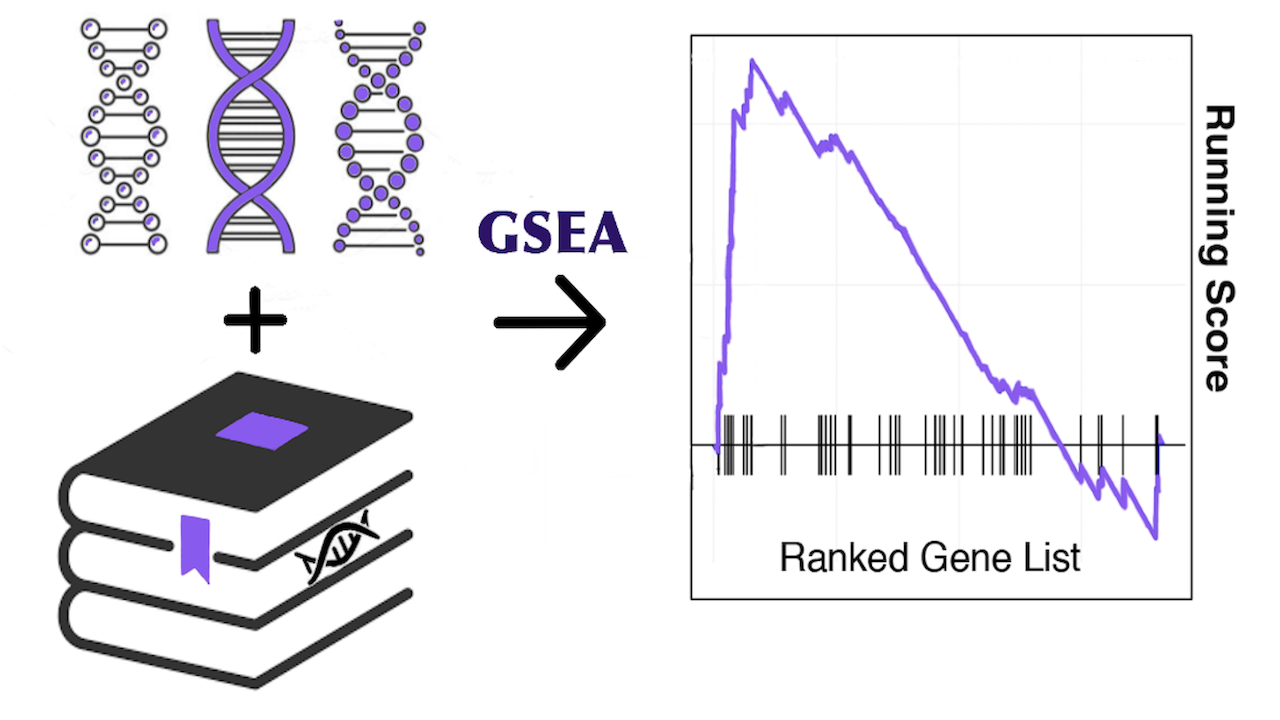
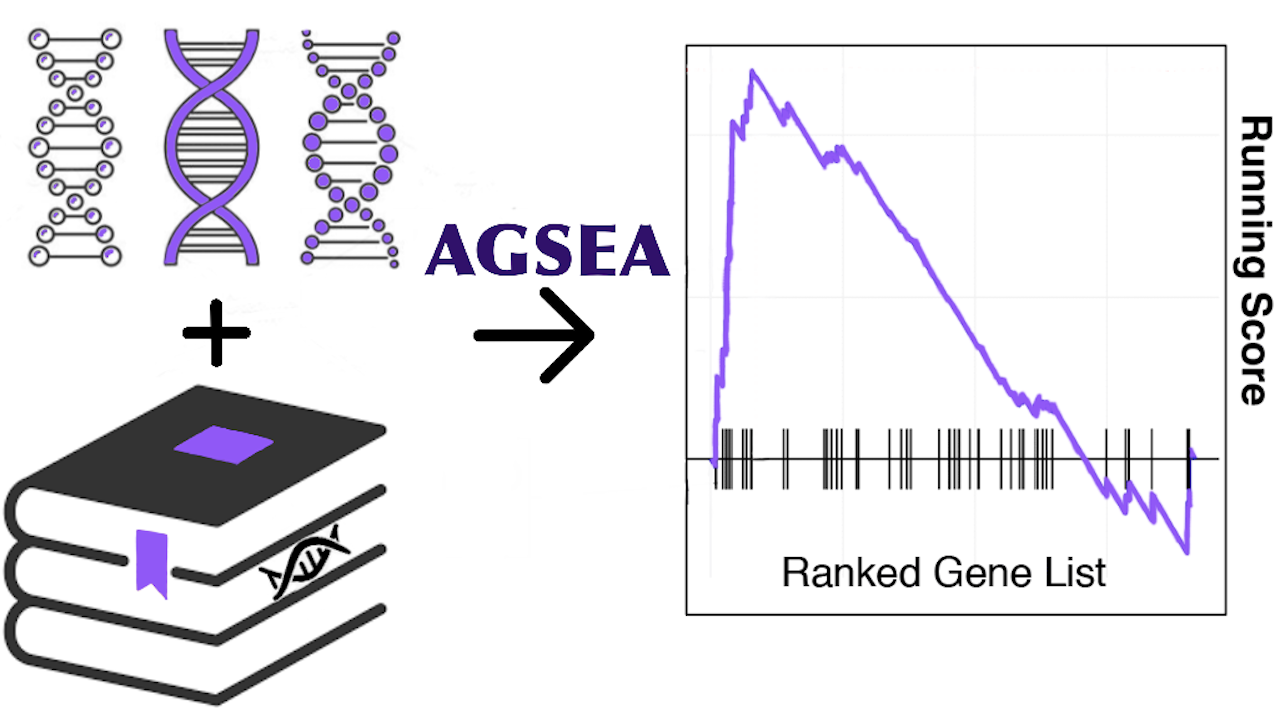
Updated GSEA files to AGSEA files

diff --git a/appyters/AGSEA_Appyter/README.md b/appyters/AGSEA_Appyter/README.md
@@ -1,12 +1,12 @@
-# GSEA Appyter
+# AGSEA Appyter
 
-The GSEA Appyter performs gene set enrichment analysis and visualizes the results. 
+The Augmented Gene Set Enrichment Analysis (AGSEA) Appyter performs and visualizes standard gene set enrichment analysis (GSEA), as well as augmented GSEA.
 
 ## Inputs
 Users must submit gene expression data and a gene set library for the appyter to run. For the gene expression submissions, users have the option of choosing to input either a pre-ranked gene list, or a gene expression dataset with a matching phenotype labels file and a choice of ranking method. As for submitting a gene set library, users can either choose one of the Enrichr libraries, or upload their own. 
-Follow this <a href="https://software.broadinstitute.org/cancer/software/gsea/wiki/index.php/Data_formats">link</a> to learn more about the proper file formats.
+Follow this [link](https://software.broadinstitute.org/cancer/software/gsea/wiki/index.php/Data_formats) to learn more about the proper file formats.
 
-After determining the data submissions, users can customize their experience further by choosing what enrichment statistic criteria they want their gene sets sorted by, and how many of these top results will be displayed by the appyter.
+After determining the data submissions, users can customize their experience further by choosing what enrichment statistic criteria they want their gene sets sorted by, how many of these top results will be displayed by the appyter, and whether they want to apply augmented GSEA.
 
 ## Results
-A table will display the enrichment statistics for the top gene sets chosen by the input criteria (with the full results available for download as a CSV file), and an interactive Enrichment Plot and Hit Indices Plot pair will also be generated for these sets (available for download as a PNG file).
+AGSEA outputs a table containing the enrichment results statistics for the top gene sets from the chosen gene set library selected by the user. The full results are available for download as a CSV file, and an interactive GSEA plot is also generated. The AGSEA Appyter also highlights genes that are co-expressed with each annotated gene set and are highly ranked within the input signature. These genes are typically understudied genes that should be further explored as relevant to the biological process under investigation. 
